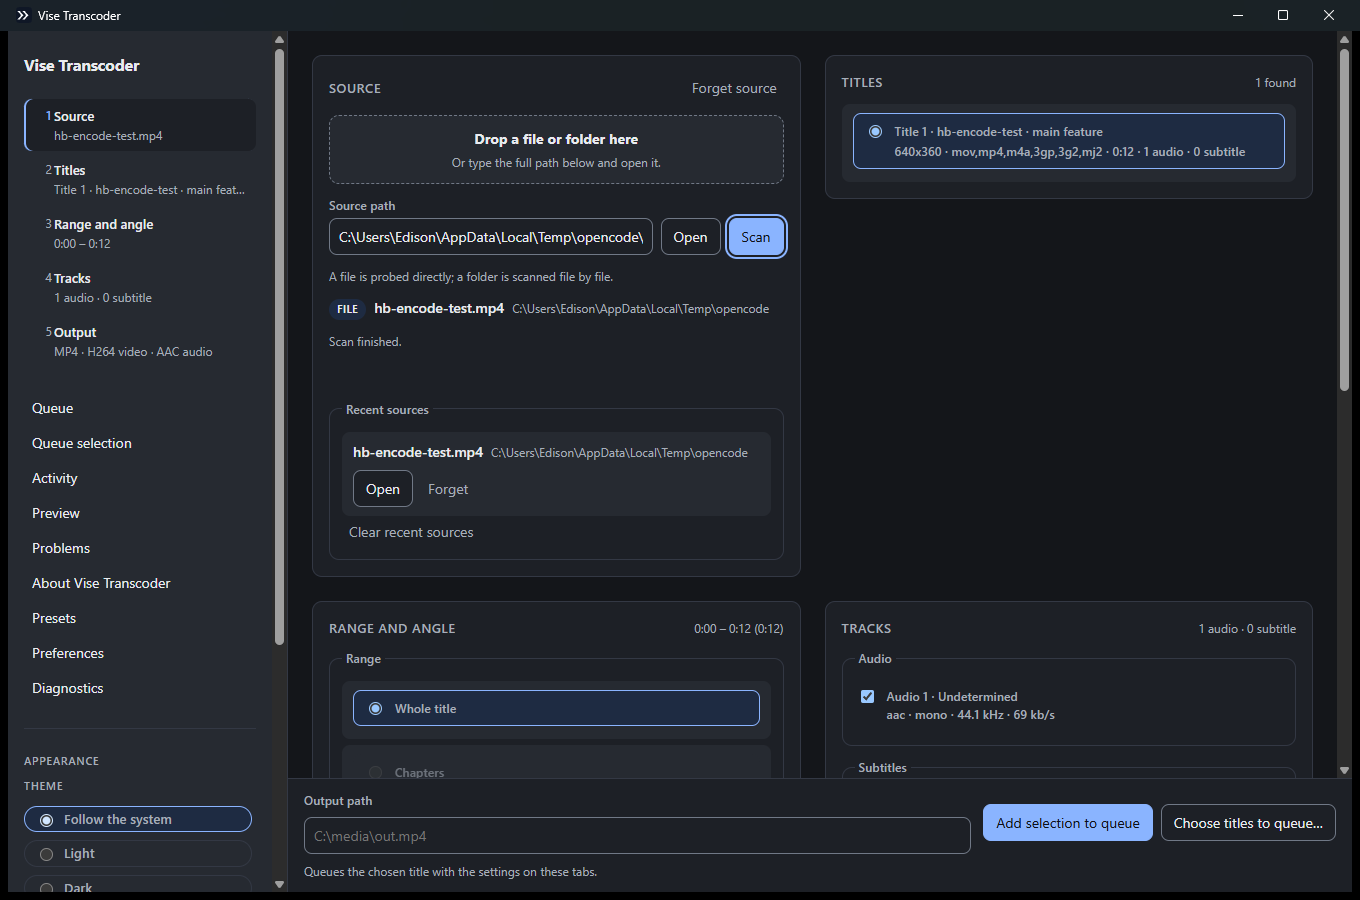
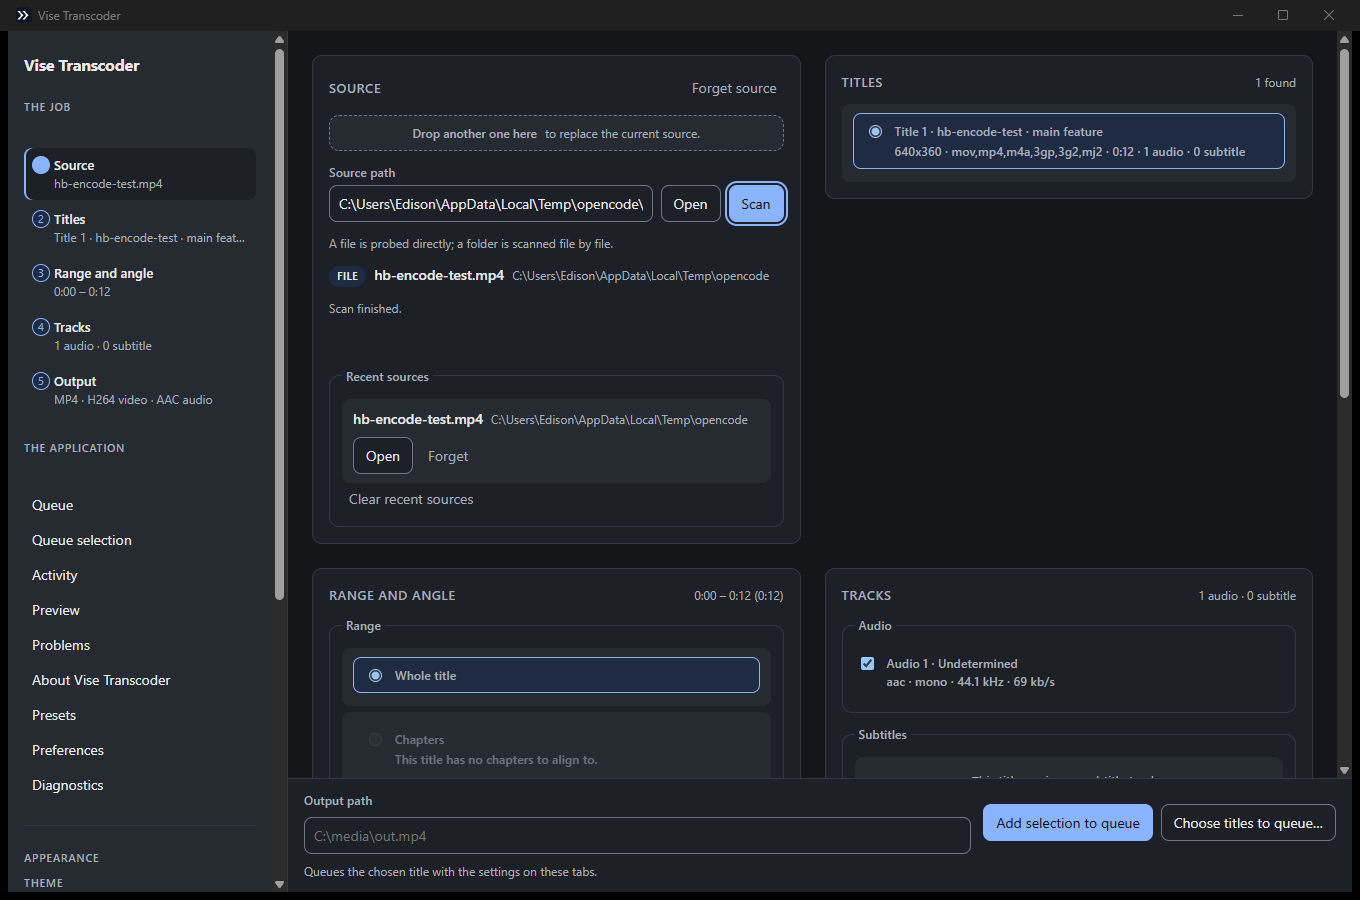
feat(desktop): name the rail's groups, mark the steps that are done, and quiet the source card
Three things were still wrong with the rail.

It held two undifferentiated lists. Five steps and nine windows set the same
way are one list of fourteen things, and the reader had to read all fourteen
to find one. The steps are the spine of the application and the windows are a
utility drawer, and the rail said so nowhere. Each group now has a heading
over it.

It said what each step held but not whether the step was done. The rail was a
list of answers, and an answer that is empty is a different thing from an
answer that is set. A step's marker is now a circle with the number in it:
hollow while the step has no answer, filled once it has one, and solid for
the step the reader is in. The pipeline became a shape to look at rather than
a list to read.

And the source card took a third of the first screen even after a source was
loaded, pushing the work the reader came for below the fold. The drop target
is for choosing a source; once one is chosen it is only a way to replace it,
so it becomes a strip that still takes a drop and says that a drop would
replace the source.

The two headings are the window's to say, so they are message keys rather
than strings in the page, and all six shipped languages carry them.

diff --git a/apps/vise-desktop/ui/styles.css b/apps/vise-desktop/ui/styles.css
@@ -283,12 +283,41 @@ p {
  * needs, and saying so is a number rather than a heading. A waiting step is
  * dimmed rather than hidden: the reader can see what comes next and why it is
  * not ready yet. */
+/* The number of the step.
+ *
+ * The number is a marker rather than a word, so it reads the same way in both
+ * directions. The circle says whether the step has an answer: hollow while it
+ * has not, filled once it has, and solid for the step the reader is in. The
+ * pipeline becomes a shape to look at rather than a list to read. */
 .step-index {
+  align-items: center;
+  background: transparent;
+  border: 1px solid var(--border-strong);
+  border-radius: 50%;
   color: var(--muted);
-  font-size: 12px;
+  display: flex;
+  font-size: 11px;
   font-variant-numeric: tabular-nums;
-  line-height: 1.45;
-  text-align: end;
+  height: 18px;
+  justify-content: center;
+  line-height: 1;
+  width: 18px;
+}
+
+/* A step that has an answer is filled, so the reader can see how far along
+ * the work is without reading the answers. */
+.step[data-done="true"] .step-index {
+  background: var(--accent-soft);
+  border-color: var(--accent);
+  color: var(--accent);
+}
+
+/* The step the reader is in is solid, because it is where the reading
+ * happens. */
+.step[aria-current="true"] .step-index {
+  background: var(--accent);
+  border-color: var(--accent);
+  color: var(--on-accent);
 }
 
 .step[aria-current="true"] .step-index {
@@ -610,6 +639,24 @@ label.switch:focus-within {
   min-height: 64px;
   padding: var(--space-3);
   text-align: center;
+}
+
+/* Once a source is chosen the drop target is only a way to replace it, so it
+   becomes a strip rather than a third of the screen. The work the reader
+   came for is below it, and it should not be pushed out of the way by the
+   means of choosing the source. */
+.step-panel[data-loaded="true"] .dropzone {
+  flex-direction: row;
+  gap: var(--space-2);
+  min-height: 0;
+  padding: var(--space-2) var(--space-3);
+  text-align: start;
+}
+
+.step-panel[data-loaded="true"] .dropzone strong {
+  color: var(--muted);
+  font-size: 12px;
+  font-weight: 500;
 }
 
 .dropzone[data-dragging="true"] {

diff --git a/apps/vise-desktop/ui/app.js b/apps/vise-desktop/ui/app.js
@@ -245,6 +245,24 @@
     offer(el("clearSourceBtn"), Boolean(source));
     offer(el("scanBtn"), Boolean(source));
     state.stepAnswers.source = source ? source.name : "";
+    /* Once a source is chosen the drop target is only a way to replace it, so
+       the card says so and the zone itself becomes a strip. The work the
+       reader came for is below it and should not be pushed out of the way by
+       the means of choosing the source. */
+    var panel = document.querySelector('.step-panel[data-step="source"]');
+    if (panel) {
+      panel.dataset.loaded = source ? "true" : "false";
+    }
+    setText(
+      el("dropTitle"),
+      source ? "Drop another one here" : "Drop a file or folder here"
+    );
+    setText(
+      el("dropHint"),
+      source
+        ? "to replace the current source."
+        : "Or type the full path below and open it."
+    );
     if (source) {
       setText(el("sourceKind"), source.kind === "folder" ? "Folder" : "File");
       setText(el("sourceName"), source.name);
@@ -966,12 +984,18 @@ function choiceRow(item, group, checked, unavailable, onSelect) {
    *
    * This is what makes the rail a summary of the job rather than only a way
    * to move around it: the state of every step is visible whether or not that
-   * step is the one the reader is on. */
+   * step is the one the reader is on. A step that has an answer is also
+   * marked, so the pipeline can be seen as a shape rather than read. */
   function renderStepAnswers() {
     STEPS.forEach(function (step) {
       var node = el("stepAnswer-" + step.id);
+      var answer = state.stepAnswers[step.id] || "";
       if (node) {
-        setText(node, state.stepAnswers[step.id] || "");
+        setText(node, answer);
+      }
+      var button = el("step-" + step.id);
+      if (button) {
+        button.dataset.done = answer ? "true" : "false";
       }
     });
   }

diff --git a/apps/vise-desktop/ui/index.html b/apps/vise-desktop/ui/index.html
@@ -79,11 +79,15 @@
     <!-- The steps. The window owns the words: each one says which message it
          wants, so a locale that lacks one shows the base language rather than
          a blank. -->
+    <h2 class="rail-heading" data-i18n="rail.job">The job</h2>
     <nav class="steps" id="steps" aria-label="Steps"></nav>
 
     <!-- The windows the application can open. They are built from the window
          catalog: every surface the window offers gets a control that opens it,
-         and a surface it does not offer has no control at all. -->
+         and a surface it does not offer has no control at all. They are under
+         a heading of their own because they are a different kind of thing from
+         the steps: one moves the work along, the other opens a window. -->
+    <h2 class="rail-heading" data-i18n="rail.application">The application</h2>
     <nav class="rail-tools" id="toolbar" aria-label="Windows and dialogs"></nav>
 
     <!-- Theme and layout direction. Every control here is a preference the
@@ -126,7 +130,7 @@
     </div>
 
     <div class="dropzone" id="dropzone" data-dragging="false">
-      <strong>Drop a file or folder here</strong>
+      <strong id="dropTitle">Drop a file or folder here</strong>
       <span class="hint" id="dropHint">Or type the full path below and open it.</span>
     </div>
 

diff --git a/crates/vise-core/src/i18n.rs b/crates/vise-core/src/i18n.rs
@@ -478,6 +478,10 @@ pub enum MessageKey {
     TabChapters,
     /// The metadata tab.
     TabMetadata,
+    /// The heading over the steps in the rail.
+    RailJob,
+    /// The heading over the windows in the rail.
+    RailApplication,
     /// The step that picks the source.
     StepSource,
     /// The step that picks the title.
@@ -630,7 +634,7 @@ pub enum MessageKey {
 
 impl MessageKey {
     /// Every key, in the order the files are written in.
-    pub const ALL: [MessageKey; 99] = [
+    pub const ALL: [MessageKey; 101] = [
         MessageKey::AppTitle,
         MessageKey::AppTagline,
         MessageKey::CommonOk,
@@ -659,6 +663,8 @@ impl MessageKey {
         MessageKey::TabSubtitles,
         MessageKey::TabChapters,
         MessageKey::TabMetadata,
+        MessageKey::RailJob,
+        MessageKey::RailApplication,
         MessageKey::StepSource,
         MessageKey::StepTitles,
         MessageKey::StepRange,
@@ -793,7 +799,7 @@ impl MessageKey {
 ///
 /// The length is checked against [`MessageKey::ALL`] by a test rather than by
 /// the type system, because an array length is not part of an enum's identity.
-const NAMES: [&str; 99] = [
+const NAMES: [&str; 101] = [
     "app.title",
     "app.tagline",
     "common.ok",
@@ -822,6 +828,8 @@ const NAMES: [&str; 99] = [
     "tab.subtitles",
     "tab.chapters",
     "tab.metadata",
+    "rail.job",
+    "rail.application",
     "step.source",
     "step.titles",
     "step.range",

diff --git a/DESIGN.md b/DESIGN.md
@@ -22,20 +22,23 @@ The window is a rail and a work area, not a document.
 │ Vise         │  SOURCE            │ TITLES                  │
 │ Transcoder   │  ┌───────────────┐ │ ┌─────────────────────┐ │
 │              │  │ drop, path    │ │ │ Title 1             │ │
-│  1 Source    │  │ scan, recent  │ │ │ Title 2             │ │
-│    film.mkv  │  └───────────────┘ │ └─────────────────────┘ │
-│  2 Titles    │                                            │
-│    Title 1   │  RANGE AND ANGLE   │ TRACKS                 │
-│  3 Range     │  ┌───────────────┐ │ ┌─────────────────────┐ │
-│    0:00–0:12 │  │ modes, points │ │ │ audio, subtitles   │ │
-│  4 Tracks    │  └───────────────┘ │ └─────────────────────┘ │
-│    1 audio   │                                            │
-│  5 Output    │  OUTPUT SETTINGS                          │
-│    MP4 · H264 │  ┌──────────────────────────────────────┐  │
-│              │  │ Summary Dimensions Filters Video …    │  │
-│  Queue       │  │ …                                    │  │
-│  Activity    │  └──────────────────────────────────────┘  │
+│ THE JOB      │  │ scan, recent  │ │ │ Title 2             │ │
+│  (1) Source  │  └───────────────┘ │ └─────────────────────┘ │
+│      film.mkv│  RANGE AND ANGLE   │ TRACKS                 │
+│  (2) Titles  │  ┌───────────────┐ │ ┌─────────────────────┐ │
+│      Title 1 │  │ modes, points │ │ │ audio, subtitles   │ │
+│  (3) Range   │  └───────────────┘ │ └─────────────────────┘ │
+│      0:00–0:12│  OUTPUT SETTINGS                          │
+│  (4) Tracks  │  ┌──────────────────────────────────────┐  │
+│      1 audio │  │ Summary Dimensions Filters Video …    │  │
+│  (5) Output  │  │ …                                    │  │
+│      MP4·H264 │  └──────────────────────────────────────┘  │
+│              │                                            │
+│ THE APPLICATION                                       │
+│  Queue       │                                            │
+│  Activity    │                                            │
 │  …           │                                            │
+│ APPEARANCE   │                                            │
 │  Theme       │                                            │
 │  Direction   │                                            │
 ├──────────────┴──────────────────────────────────────────────┤
@@ -54,10 +57,21 @@ The window is a rail and a work area, not a document.
 - **A step in the rail is a link, not a switch.** Clicking it scrolls to that
   step; the step in view is marked as the reader scrolls, so the rail is a
   position indicator as well as a summary.
+- **A step's marker says whether it is done.** A circle with the number in
+  it: hollow while the step has no answer, filled once it has one, and solid
+  for the step the reader is in. The pipeline is a shape to look at rather
+  than a list to read.
+- **The rail's groups are named.** "The job" over the steps and "The
+  application" over the windows, because five steps and nine windows set the
+  same way are one list of fourteen things rather than two kinds of thing.
 - **The work area is two columns of setup over one full-width band of
   output.** The four selection cards are in a two-up grid and the output
   settings take the whole width, because the eight tabs need the room and the
   selection cards do not. Reading order is left to right and then down.
+- **The source card is quiet once a source is chosen.** The drop target
+  becomes a strip that still takes a drop, because it is how the source is
+  replaced, but it no longer takes a third of the first screen and pushes the
+  work below the fold.
 - **The windows are in the rail** because they are chrome rather than work,
   and the appearance controls are at its foot because they are settings a
   reader changes once.
@@ -141,7 +155,7 @@ measure the eye reads comfortably.
 | Component | What it is |
 |---|---|
 | **Rail** | The window's chrome: the name, the steps, the windows, and the settings. It scrolls on its own and never moves the work area. |
-| **Step** | A row in the rail: the number of the step, its name, and the answer it has reached. The step on screen is marked with the accent and a leading edge; a step waiting on an earlier one is dimmed. |
+| **Step** | A row in the rail: a circle with the number in it, the step's name, and the answer it has reached. The circle is hollow until the step has an answer, filled once it has one, and solid for the step the reader is in. |
 | **Card** | A panel with a heading, a hint on the right, and its content below. `--surface`, a 1px border, a 10px radius, 16px of padding. |
 | **Choice** | A radio in a label: the control, the name, and the reason beneath it. The chosen one carries the accent wash. |
 | **Switch** | A checkbox with a name and its reason beneath, in a row that wraps. |

diff --git a/docs/ROADMAP.md b/docs/ROADMAP.md
@@ -416,7 +416,11 @@ The window was rearranged around a rail and a work area. The rail holds the name
 
 Nothing is hidden behind a click. An earlier arrangement showed one step at a time and made the reader choose a step to see it, which was a step switcher wearing a summary's clothes: the rail already said what every step held, so hiding the content behind it made the reader do the work the rail was doing. The work is now one scroll with every step in it, and a step in the rail is a link that scrolls to it rather than a switch. The four selection cards are in a two-up grid and the output settings take the whole width, because the eight tabs need the room and the selection cards do not.
 
-Verified by running the application: every control is on screen at once, the answer beside each step follows the selection (the source's name, the title that is chosen, the range that is set, the counts of the tracks that are on, and the container and codecs the output will be), clicking a step in the rail scrolls to that step, the step in view is marked as the reader scrolls, the action bar is at the foot whatever the work above it, and the rail mirrors with the layout direction. Below the width where two cards fit side by side the work is one column, and below the width where a rail and a card both fit the rail becomes a strip along the top with the steps in a row.
+The rail was then given the two things it was missing: a heading over each of its groups, because five steps and nine windows set the same way are one list of fourteen things rather than two kinds of thing, and a marker that says whether a step is done. The marker is a circle with the number in it: hollow while the step has no answer, filled once it has one, and solid for the step the reader is in. The pipeline became a shape to look at rather than a list to read, and the answers beside the numbers still say what was decided.
+
+The source card was quietened once a source is chosen. The drop target took a third of the first screen, and the work the reader came for was below it; the zone is now a strip that still takes a drop and says that a drop would replace the source.
+
+Verified by running the application: every control is on screen at once, the answer beside each step follows the selection (the source's name, the title that is chosen, the range that is set, the counts of the tracks that are on, and the container and codecs the output will be), a step's marker is filled once it has an answer and solid for the step in view, clicking a step in the rail scrolls to that step, the action bar is at the foot whatever the work above it, the drop target is a strip once a source is loaded, and the rail mirrors with the layout direction. Below the width where two cards fit side by side the work is one column, and below the width where a rail and a card both fit the rail becomes a strip along the top with the steps in a row.
 
 Verified by unit tests and by running the application against a generated clip: scan, preview still, crop into the dimensions tab, queue, encode through the worker, the countdown alert, and the preset round trip. Theme and direction were verified by driving the shipped page in a browser with the bridge stubbed to the answers the window sends, across following and forced preferences in both themes and both directions: the resolved pair reaches every surface, the toolbar and tab strip are measured on the start edge of the layout they are in, the arrow keys along the strip move with the layout, a dialog opened over the page inherits both values and holds the same contrast, and the page opens in the theme and direction it was last left in when the bridge cannot answer at all. The colours were checked in both themes: every text token clears 4.5:1 against the surface it is read on, every control boundary clears 3:1 against both the surface and the sunken fill, and the focus ring is two colours so it stays visible against a light control in a dark window and a dark control in a light one. The application itself was not launched for this slice, so the appearance of the real window was confirmed through the shipped page rather than through the running window.
 

diff --git a/README.md b/README.md
@@ -30,7 +30,7 @@ filters the application offers are always the ones it was tested against.
 
 | | |
 |---|---|
-| ![The window with a source scanned](docs/screenshot-desktop.png)<br>**The window.** Every control is on screen at once. The rail carries the steps of the work and the answer each one has reached; the action that commits the job is always on screen. | ![The output settings](docs/screenshot-tabs.png)<br>**Eight configuration tabs.** Container, codecs, filters, dimensions, tracks, chapters, and metadata — each control explaining what it does. |
+| ![The window with a source scanned](docs/screenshot-desktop.png)<br>**The window.** Every control is on screen at once. The rail carries the steps of the work and the answer each one has reached, with a marker that says which are done; the action that commits the job is always on screen. | ![The output settings](docs/screenshot-tabs.png)<br>**Eight configuration tabs.** Container, codecs, filters, dimensions, tracks, chapters, and metadata — each control explaining what it does. |
 | ![The preset catalogue](docs/screenshot-presets.png)<br>**138 built-in presets** across six categories, each resolved against the hardware this machine actually has. | |
 
 ## Install
